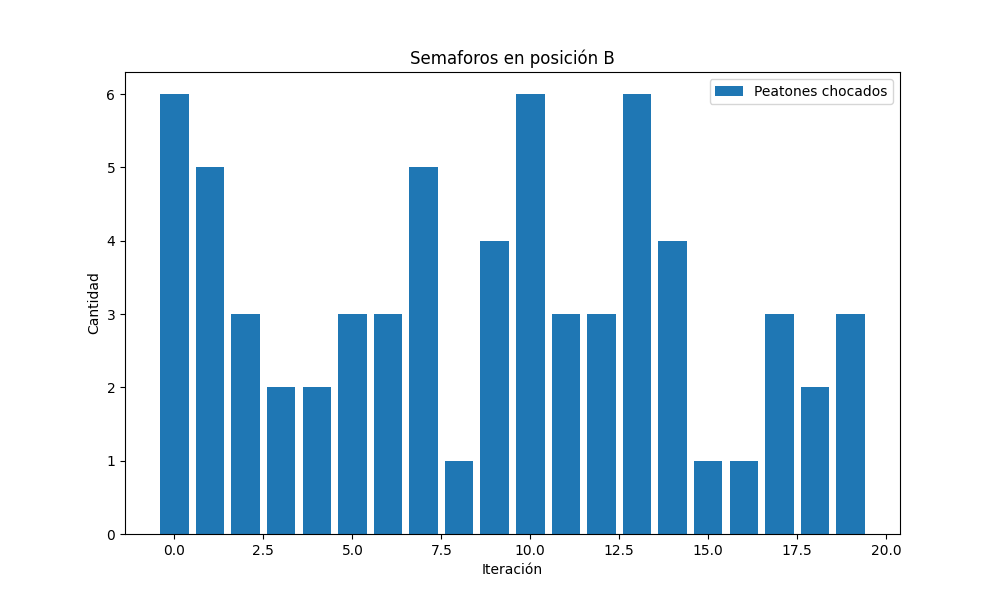
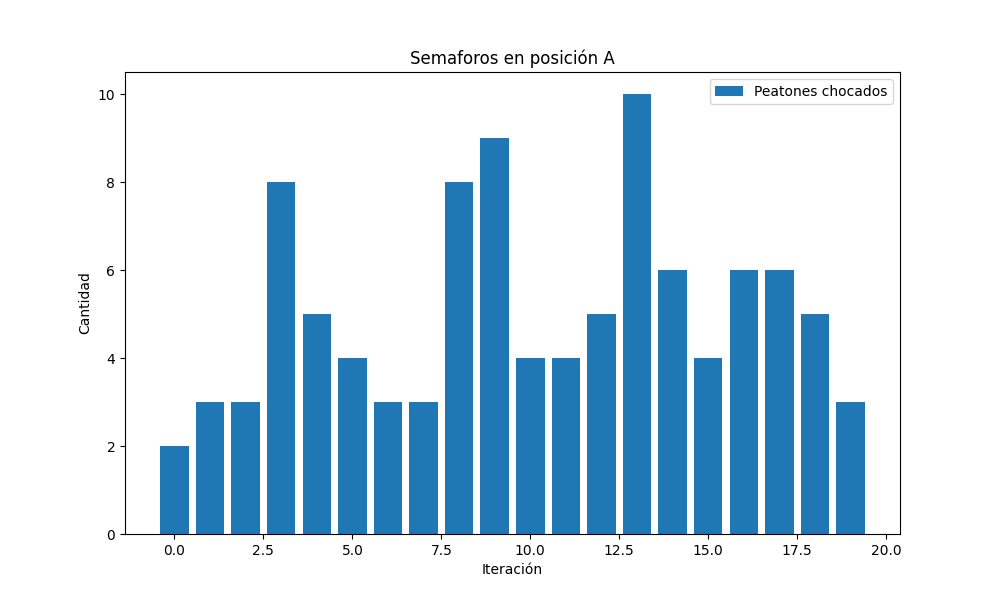
Cambios a endpoint

diff --git a/traffic_model.py b/traffic_model.py
@@ -445,53 +445,55 @@ banqueta = [
 ]
 
 # Posicion A
-# semaforosV = [
-#     (7, 3),
-#     (8, 3),
-#     (4, 9),
-#     (5, 9),
-#     (7, 21),
-#     (8, 21),
-#     (4, 27),
-#     (5, 27),
-#     (25, 3),
-#     (26, 3),
-#     (22, 9),
-#     (23, 9),
-#     (25, 21),
-#     (26, 21),
-#     (22, 27),
-#     (23, 27),
-# ]
+"""
+semaforosV = [
+     (7, 3),
+     (8, 3),
+     (4, 9),
+     (5, 9),
+     (7, 21),
+     (8, 21),
+     (4, 27),
+     (5, 27),
+     (25, 3),
+     (26, 3),
+     (22, 9),
+     (23, 9),
+     (25, 21),
+     (26, 21),
+     (22, 27),
+     (23, 27),
+]
 
-# semaforosH = [
-#     (3, 4),
-#     (3, 5),
-#     (9, 7),
-#     (9, 8),
-#     (21, 4),
-#     (21, 5),
-#     (27, 7),
-#     (27, 8),
-#     (3, 22),
-#     (3, 23),
-#     (9, 25),
-#     (9, 26),
-#     (21, 22),
-#     (21, 23),
-#     (27, 25),
-#     (27, 26),
-#     (3, 13),
-#     (3, 14),
-#     (27, 16),
-#     (27, 17),
-# ]
-
+semaforosH = [
+     (3, 4),
+     (3, 5),
+     (9, 7),
+     (9, 8),
+     (21, 4),
+     (21, 5),
+     (27, 7),
+     (27, 8),
+     (3, 22),
+     (3, 23),
+     (9, 25),
+     (9, 26),
+     (21, 22),
+     (21, 23),
+     (27, 25),
+     (27, 26),
+     (3, 13),
+     (3, 14),
+     (27, 16),
+     (27, 17),
+]
+"""
 # Sin semaforos
-# semaforosV = []
-# semaforosH = []
+#semaforosV = []
+#semaforosH = []
 
 # Posiciones B
+"""
 semaforosV = [
     (7, 3),
     (8, 3),
@@ -581,49 +583,48 @@ semaforosH = [
     (27, 16),
     (27, 17),
 ]
-
+"""
 # Posicion C
-# semaforosV = [
-#     (7, 2),
-#     (8, 2),
-#     (4, 10),
-#     (5, 10),
-#     (7, 20),
-#     (8, 20),
-#     (4, 28),
-#     (5, 28),
-#     (25, 2),
-#     (26, 2),
-#     (22, 10),
-#     (23, 10),
-#     (25, 20),
-#     (26, 20),
-#     (22, 28),
-#     (23, 28),
-# ]
-
-# semaforosH = [
-#     (2, 4),
-#     (2, 5),
-#     (10, 7),
-#     (10, 8),
-#     (21, 3),
-#     (21, 3),
-#     (28, 7),
-#     (28, 8),
-#     (2, 22),
-#     (2, 23),
-#     (10, 25),
-#     (10, 26),
-#     (20, 22),
-#     (20, 23),
-#     (28, 25),
-#     (28, 26),
-#     (2, 13),
-#     (2, 14),
-#     (28, 16),
-#     (28, 17),
-# ]
+semaforosV = [
+     (7, 2),
+     (8, 2),
+     (4, 10),
+     (5, 10),
+     (7, 20),
+     (8, 20),
+     (4, 28),
+     (5, 28),
+     (25, 2),
+     (26, 2),
+     (22, 10),
+     (23, 10),
+     (25, 20),
+     (26, 20),
+     (22, 28),
+     (23, 28),
+ ]
+semaforosH = [
+     (2, 4),
+     (2, 5),
+     (10, 7),
+     (10, 8),
+     (21, 3),
+     (21, 3),
+     (28, 7),
+     (28, 8),
+     (2, 22),
+     (2, 23),
+     (10, 25),
+     (10, 26),
+    (20, 22),
+     (20, 23),
+     (28, 25),
+     (28, 26),
+     (2, 13),
+     (2, 14),
+     (28, 16),
+     (28, 17),
+]
 
 puntos_salida_autos = [
     # First street

diff --git a/serverF.py b/serverF.py
@@ -5,6 +5,7 @@ app = Flask(__name__)
 # Almacenar datos de posición de los agentes
 agent_positions = {}
 agent_states = {}
+peaton_states = {}
 
 #Routes--------------------------------------------
 @app.route('/update_positions', methods=['POST'])
@@ -34,13 +35,13 @@ def get_states():
 @app.route('/update_positionsCompas', methods=['POST'])
 def update_postionsCompas():
     data = request.json
-    agent_states.update(data)
+    peaton_states.update(data)
     return jsonify({"status": "success State"})
 
 @app.route('/agent_postionsCompas', methods=['GET'])
 def get_positionsCompas():
     # Convertir el diccionario en una lista de objetos para que Unity pueda procesarlo
-    states_list = [{"id": key, "position": value} for key, value in agent_states.items()]
+    states_list = [{"id": key, "position": value} for key, value in peaton_states.items()]
     return jsonify(states_list)
 
 @app.route('/update_positionsHelado', methods=['POST'])

diff --git a/batch_run.py b/batch_run.py
@@ -34,7 +34,7 @@ grouped_data = df.groupby("iteration").mean()
 
 plt.figure(figsize=(10, 6))
 plt.bar(grouped_data.index, grouped_data["chocados"], label="Peatones chocados")
-plt.title("Semaforos en posición B")
+plt.title("Semaforos en posición A")
 plt.xlabel("Iteración")
 plt.ylabel("Cantidad")
 plt.legend()
